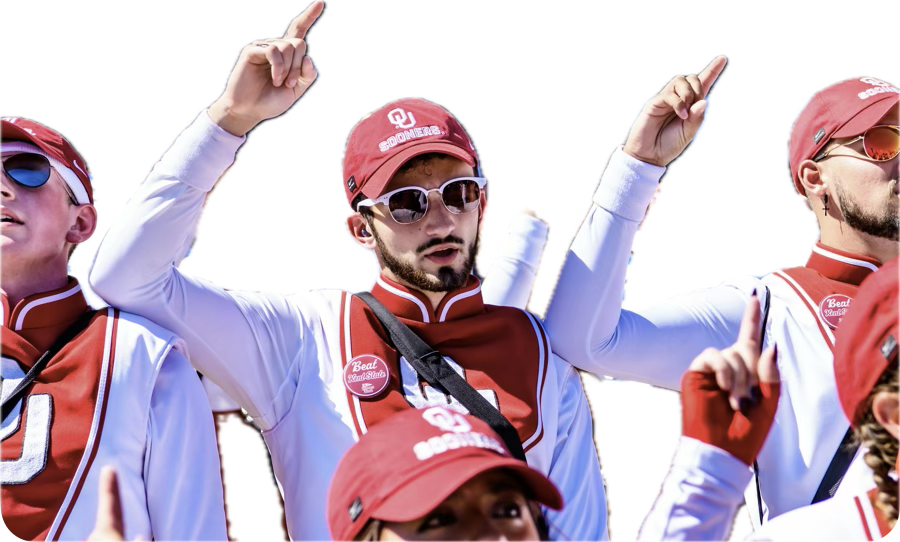
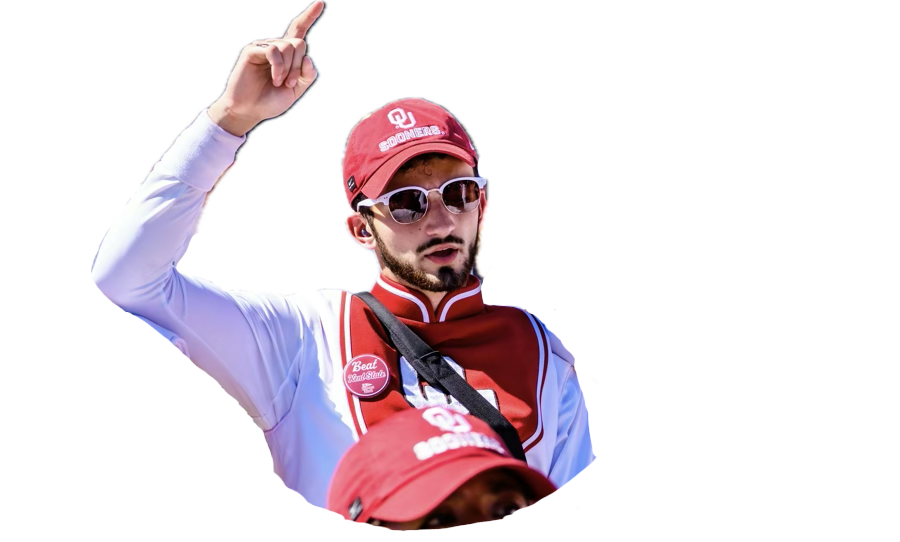
photopea shout out

diff --git a/src/App.css b/src/App.css
@@ -147,6 +147,7 @@
   transform: translateZ(0);
   filter: drop-shadow(0 10px 25px rgba(0, 0, 0, 0.4)) 
           drop-shadow(0 4px 12px rgba(229, 9, 20, 0.2));
+
 }
 
 /* Text Cards */
@@ -305,8 +306,7 @@
   position: relative;
   z-index: 2;
   overflow: visible;
-  clip-path: ellipse(46% 60% at 40% 35%);
-  transform: scale(1.1) translateY(3px) translateX(25px);
+  transform: scale(1.1) translateY(-8px) translateX(5px);
 }
 
 .about-me img:hover {
@@ -546,9 +546,9 @@
   }
 
   .about-me img {
-    transform: scale(1);
-    clip-path: circle(50% at 50% 50%);
+    transform: scale(1.1) translateY(-9px) translateX(10px);
     overflow: visible;
+
   }
 
   .about-me p {
